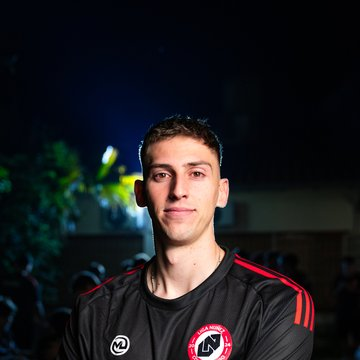
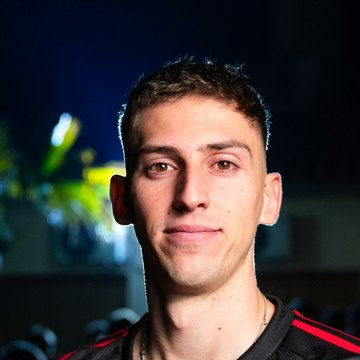
Face-centered crops
Claude-Session: https://claude.ai/code/session_01M6jUVZkPLQ8eqEsdzbFnz8

diff --git a/copa-potrero/index.html b/copa-potrero/index.html
@@ -115,7 +115,7 @@ tr.us td:first-child{color:var(--red)}
 .player .nm{font-weight:700;font-size:1.05rem;line-height:1.05}
 .player > span:last-child{line-height:1.05}
 .player .ps{font-size:.74rem;letter-spacing:.12em;text-transform:uppercase;color:var(--muted);line-height:1.1}
-.player .av{width:72px;height:72px;border-radius:50%;object-fit:cover;object-position:50% 15%;display:block}
+.player .av{width:72px;height:72px;border-radius:50%;object-fit:cover;object-position:50% 50%;display:block}
 .player.dt{background:var(--ink);color:var(--paper)}
 .player.dt .num{color:var(--gold)}
 .player.dt .ps{color:#b9b7b0}
